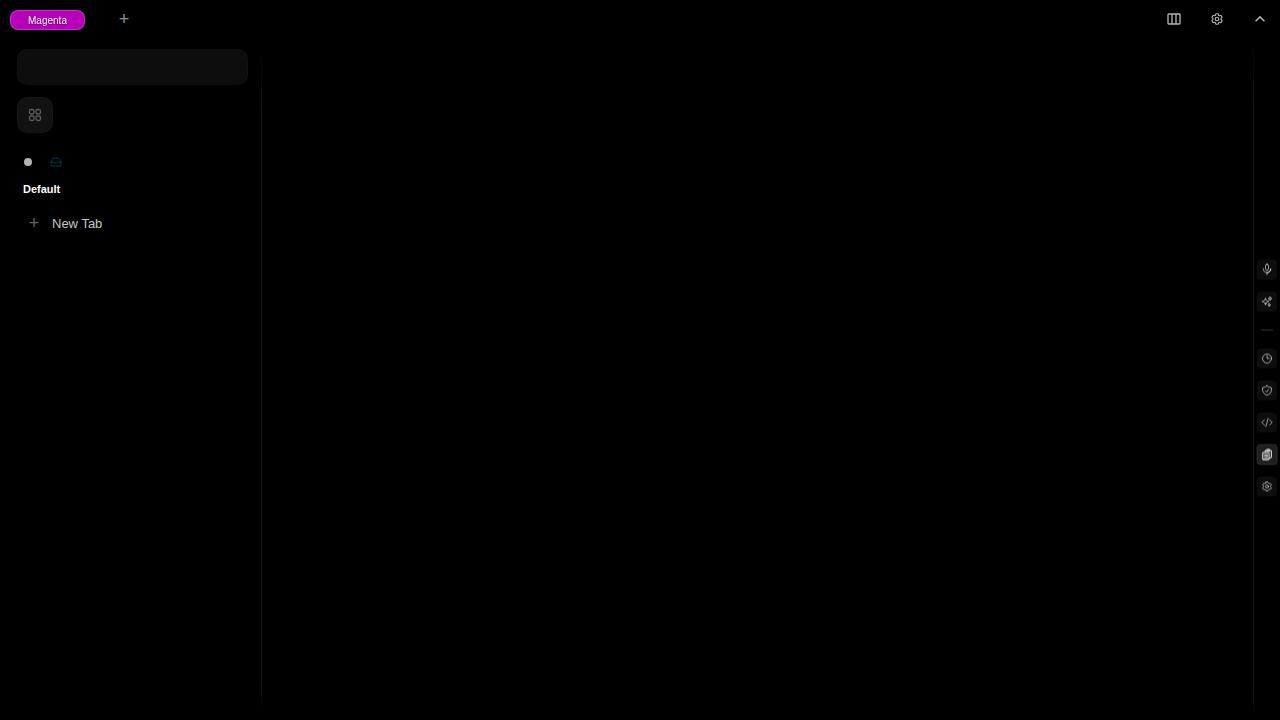
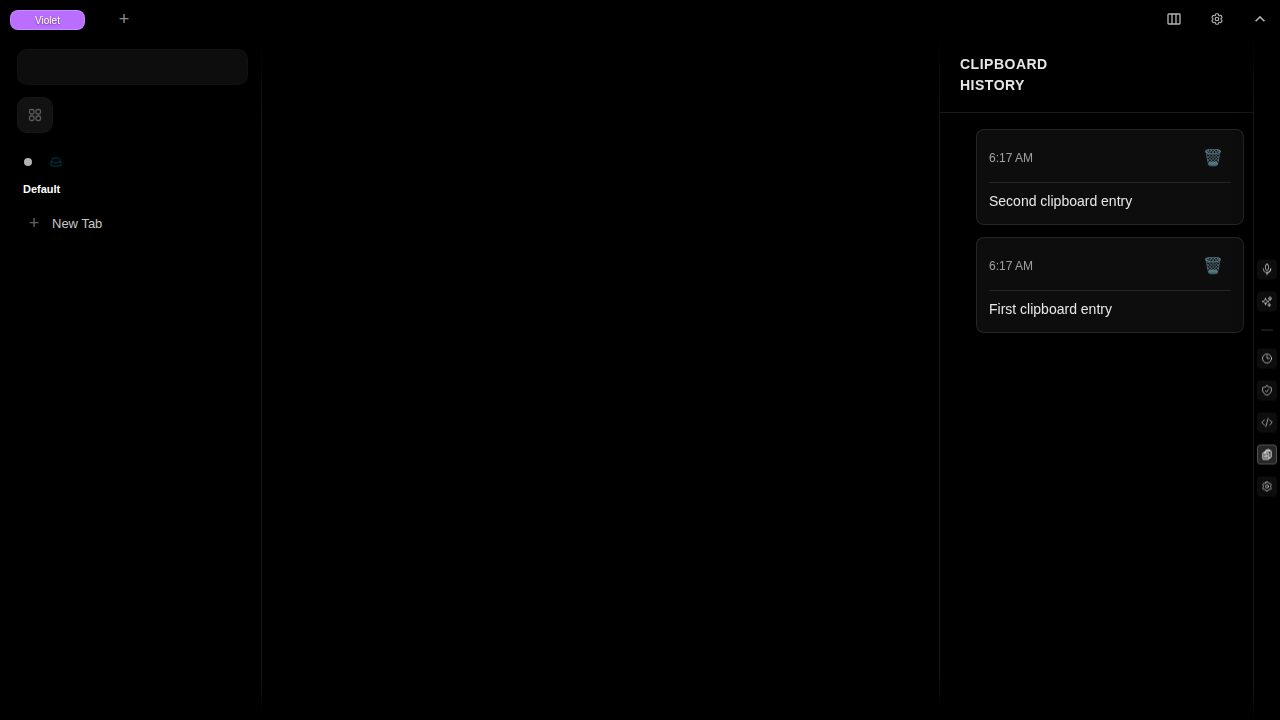
Complete multiple entries test with all 3 progressive screenshots

diff --git a/e2e-tests/regenerate-test2.js b/e2e-tests/regenerate-test2.js
@@ -99,7 +99,7 @@ async function runTest() {
   console.log('  ✓ First entry verified');
   
   // Close sidebar
-  await page.locator('button[aria-label="Close"]').first().click();
+  await page.locator('button[aria-label="Close Clipboard History"]').first().click();
   await page.waitForTimeout(500);
   
   // Copy second entry
@@ -158,7 +158,7 @@ async function runTest() {
   console.log('  ✓ Second entry verified');
   
   // Close sidebar
-  await page.locator('button[aria-label="Close"]').first().click();
+  await page.locator('button[aria-label="Close Clipboard History"]').first().click();
   await page.waitForTimeout(500);
   
   // Copy third entry

diff --git a/e2e-tests/reports/clipboard-history-copy-multiple-entries-and-verify-all-appear/README.md b/e2e-tests/reports/clipboard-history-copy-multiple-entries-and-verify-all-appear/README.md
@@ -1,69 +1,48 @@
-# Test Report: clipboard-history-copy-multiple-entries-and-verify-all-appear
-
-**Generated**: 2025-11-19T03:04:31.751Z
-
-**Total Steps**: 4
+# Test: clipboard-history-copy-multiple-entries-and-verify-all-appear
 
 ## User Story
 
-As a user, I want to view my clipboard history so I can keep track of text I've copied
+As a user, I want to copy multiple text entries and see them all appear in the clipboard history sidebar.
 
-### Acceptance Criteria
+## Acceptance Criteria
 
-- User can copy text and see it appear in clipboard history
-- Clipboard history is accessible via sidebar
-- Copied entries are stored in PouchDB
-- Entries persist across page refreshes
-- User can delete individual entries
+- [ ] Each copy operation captures the text
+- [ ] Clipboard history sidebar shows all copied entries
+- [ ] Entries appear in chronological order (newest first)
+- [ ] Each entry displays the full copied text
 
----
+## Test Steps
 
+### Step 1: First Entry Copied and Visible
 
-## Step 1: First Entry Copied
+![First Entry Copied and Visible](screenshots/001-first-entry-copied.png)
 
-First entry copied: "First clipboard entry"
+**Description:** First entry copied: "First clipboard entry" and visible in sidebar
 
-![First Entry Copied](./screenshots/001-first-entry-copied.png)
+**Expected Outcomes:**
+- First entry captured by clipboard monitor
+- Sidebar shows 1 entry
+- Entry text matches: "First clipboard entry"
 
-### Expectations
+### Step 2: Second Entry Copied and Visible
 
-- ✓ First entry captured by clipboard monitor
+![Second Entry Copied and Visible](screenshots/002-second-entry-copied.png)
 
----
+**Description:** Second entry copied: "Second clipboard entry" and visible in sidebar
 
-## Step 2: Second Entry Copied
+**Expected Outcomes:**
+- Second entry captured
+- Sidebar shows 2 entries
+- Entries in order: Second (newest), First
 
-Second entry copied: "Second clipboard entry"
+### Step 3: Third Entry Copied - All Entries Visible
 
-![Second Entry Copied](./screenshots/002-second-entry-copied.png)
+![Third Entry Copied - All Entries Visible](screenshots/003-third-entry-copied.png)
 
-### Expectations
+**Description:** Third entry copied: "Third clipboard entry" - all three entries now visible
 
-- ✓ Second entry captured
-
----
-
-## Step 3: Third Entry Copied
-
-Third entry copied: "Third clipboard entry"
-
-![Third Entry Copied](./screenshots/003-third-entry-copied.png)
-
-### Expectations
-
-- ✓ Third entry captured
-
----
-
-## Step 4: All Entries Visible
-
-All three entries visible in clipboard history
-
-![All Entries Visible](./screenshots/004-all-entries-visible.png)
-
-### Expectations
-
-- ✓ Three entries are displayed
-- ✓ Entries are in chronological order (newest first)
-- ✓ All text content is visible
+**Expected Outcomes:**
+- Third entry captured
+- Sidebar shows all 3 entries
+- Entries in order: Third (newest), Second, First
 
